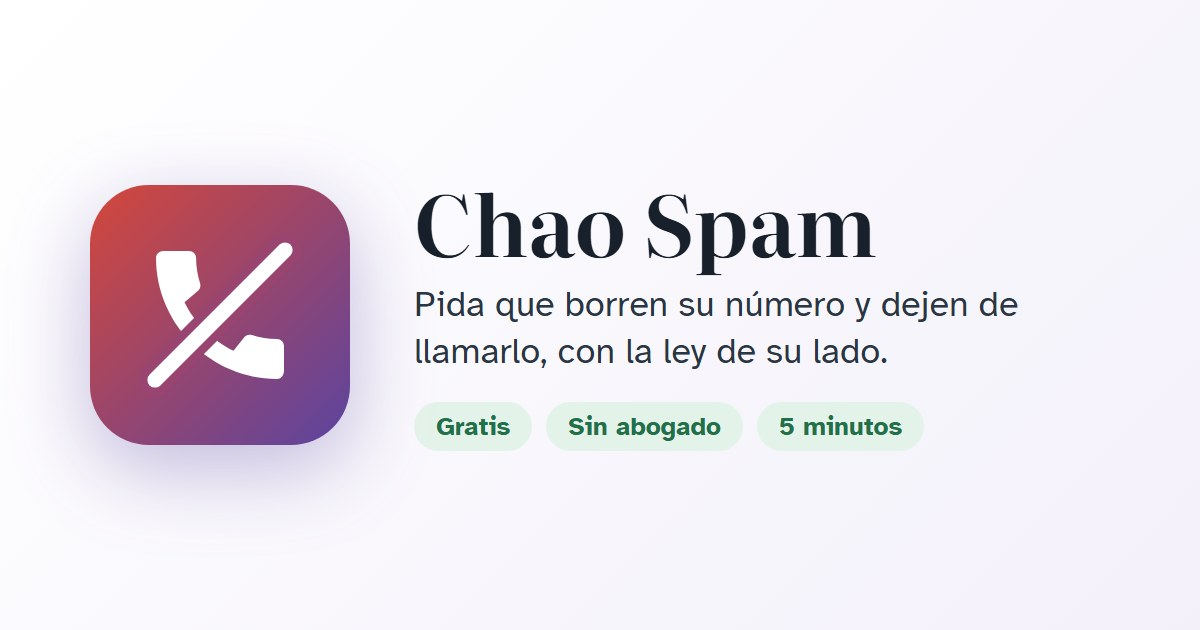
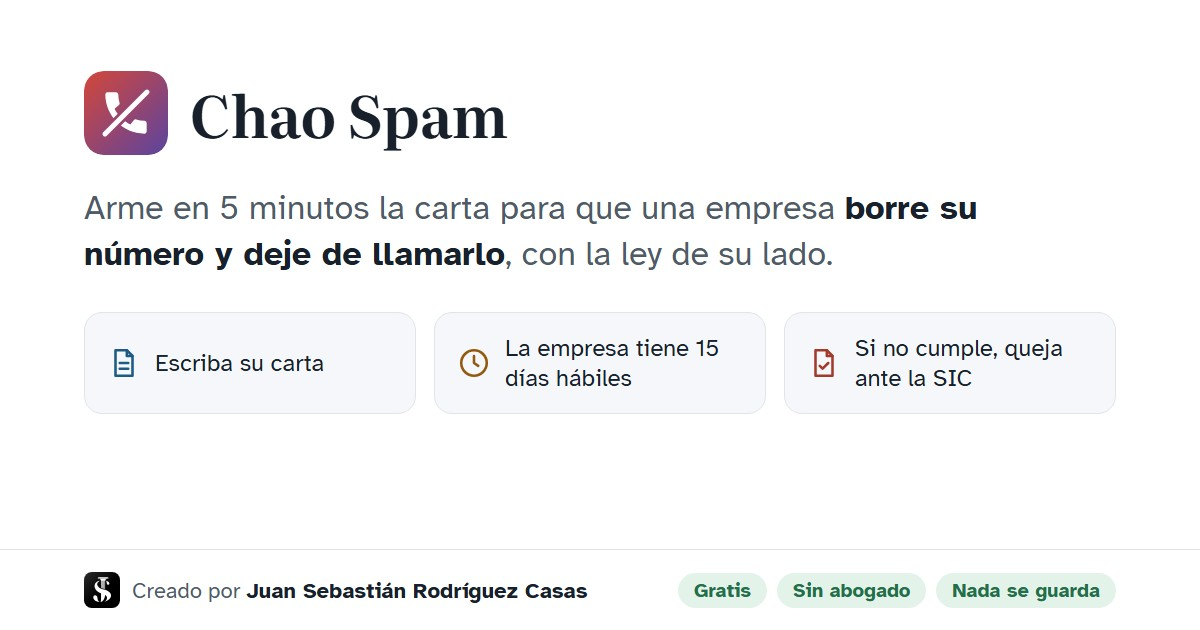
Un paso por pantalla con la accion principal abajo, imagen para compartir minimalista con autor, pie en una linea

diff --git a/index.html b/index.html
@@ -21,17 +21,17 @@
 <meta property="og:type" content="website">
 <meta property="og:locale" content="es_CO">
 <meta property="og:site_name" content="Chao Spam">
-<meta property="og:title" content="Chao Spam: pida que borren su número y dejen de llamarlo">
-<meta property="og:description" content="Arme gratis su derecho de petición en 5 minutos, con la ley de su lado. Sin abogado. Nada se guarda.">
+<meta property="og:title" content="Chao Spam · Pida que borren su número y dejen de llamarlo">
+<meta property="og:description" content="Pida que borren su número y dejen de llamarlo, con la ley de su lado. Gratis, sin abogado y en 5 minutos. Creado por Juan Sebastián Rodríguez Casas.">
 <meta property="og:url" content="https://sebastian09781.github.io/peticion-antispam/">
-<meta property="og:image" content="https://sebastian09781.github.io/peticion-antispam/img/og-image.jpg">
+<meta property="og:image" content="https://sebastian09781.github.io/peticion-antispam/img/og-image.jpg?v=3">
 <meta property="og:image:width" content="1200">
 <meta property="og:image:height" content="630">
-<meta property="og:image:alt" content="Logo de Chao Spam: un teléfono tachado, con el texto: pida que borren su número y dejen de llamarlo">
+<meta property="og:image:alt" content="Chao Spam: arme en 5 minutos la carta para que una empresa borre su número y deje de llamarlo. Creado por Juan Sebastián Rodríguez Casas">
 <meta name="twitter:card" content="summary_large_image">
-<meta name="twitter:title" content="Chao Spam: pida que borren su número y dejen de llamarlo">
-<meta name="twitter:description" content="Arme gratis su derecho de petición en 5 minutos, con la ley de su lado.">
-<meta name="twitter:image" content="https://sebastian09781.github.io/peticion-antispam/img/og-image.jpg">
+<meta name="twitter:title" content="Chao Spam · Pida que borren su número y dejen de llamarlo">
+<meta name="twitter:description" content="Pida que borren su número y dejen de llamarlo. Gratis y sin abogado. Creado por Juan Sebastián Rodríguez Casas.">
+<meta name="twitter:image" content="https://sebastian09781.github.io/peticion-antispam/img/og-image.jpg?v=3">
 
 <!-- Datos estructurados para buscadores -->
 <script type="application/ld+json">
@@ -266,6 +266,8 @@ html.quieto *, html.quieto *::before, html.quieto *::after{animation:none!import
 .foot{gap:8px}
 .foot .badge-ok{display:inline-flex; gap:6px; align-items:center; font-size:.85rem; font-weight:700; color:var(--green); background:var(--green-soft); border-radius:999px; padding:5px 12px; text-decoration:none; border:0; font-family:inherit; cursor:pointer}
 .foot .badge-ok .ico{font-size:1rem; color:var(--green)}
+.foot .badge-ok{white-space:nowrap}
+@media (max-width: 440px){ .foot{flex-wrap:nowrap; gap:5px} .foot .badge-ok{font-size:.74rem; padding:5px 9px; gap:4px} .foot .badge-ok .ico{font-size:.85rem} }
 
 /* Botones principales: degradado suave en movimiento y un brillo que pasa de vez en cuando, para invitar a tocarlos */
 .cta.main, .cta.sic, .btn.next{position:relative; overflow:hidden; background-size:220% 100%; transition:transform .15s ease, box-shadow .3s ease}
@@ -303,6 +305,13 @@ footer.nav .btn.next.ready{background-image:linear-gradient(110deg, var(--blue) 
 .sugg button:hover, .sugg button.act{background:var(--blue-soft)}
 @media (prefers-reduced-motion: no-preference){ .sugg:not([hidden]){animation:rise .18s ease-out} }
 
+.docbar{display:flex; justify-content:space-between; align-items:center; gap:10px; margin-top:-8px}
+.iconcta.sm{width:46px; min-height:46px; font-size:1.25rem}
+footer.nav .btn.next{display:inline-flex; gap:8px; align-items:center; justify-content:center; flex:1; max-width:22rem; font-size:1.05rem; min-height:50px}
+footer.nav .btn.next .ico{font-size:1.25rem}
+footer.nav .btn.next{white-space:nowrap}
+@media (max-width: 400px){ footer.nav .btn.next{font-size:.98rem; padding:10px 14px} footer.nav .btn.prev{padding:10px 14px} }
+footer.nav .btn.prev{flex:none}
 .sendbar{display:flex; gap:10px; align-items:stretch}
 .sendbar .cta.big{flex:1}
 .iconcta{flex:none; width:58px; min-height:58px; border-radius:14px; border:2px solid var(--line); background:var(--surface); color:var(--blue); display:grid; place-items:center; font-size:1.45rem; cursor:pointer}
@@ -552,38 +561,36 @@ footer.nav{position:fixed; left:0; right:0; bottom:0; z-index:10; background:var
   <!-- CARTA -->
   <section class="step" data-id="carta" style="--c:var(--green);--cs:var(--green-soft)" hidden>
     <div class="qhead"><div class="badge"><svg class="ico"><use href="#i-doc"/></svg></div>
-      <div><p class="qnum">1 · Léala</p><h2 class="qtext">Su carta</h2></div></div>
+      <div><p class="qnum">Su carta</p><h2 class="qtext">Léala antes de enviarla</h2></div></div>
     <div class="paper"><div class="doc" id="carta" contenteditable="true" role="textbox" aria-multiline="true" aria-label="Su carta a la empresa" spellcheck="true"></div></div>
-    <p class="hint"><svg class="ico" style="color:var(--blue)"><use href="#i-pencil"/></svg>Puede tocar el texto para corregirlo.</p>
-
-    <p class="qnum" style="color:var(--green)">2 · Envíela</p>
-    <p class="attach"><svg class="ico"><use href="#i-clip"/></svg>Adjunte una foto de su cédula</p>
-    <div class="sendbar">
-      <button class="cta main big" type="button" id="abrir"><svg class="ico"><use href="#i-send"/></svg>Enviar por correo</button>
-      <button class="iconcta" type="button" id="copiar" aria-label="Copiar el texto" title="Copiar el texto"><svg class="ico"><use href="#i-copy"/></svg></button>
+    <div class="docbar">
+      <p class="hint"><svg class="ico" style="color:var(--blue)"><use href="#i-pencil"/></svg>Toque el texto para corregirlo.</p>
+      <button class="iconcta sm" type="button" id="copiar" aria-label="Copiar el texto" title="Copiar el texto"><svg class="ico"><use href="#i-copy"/></svg></button>
     </div>
+    <p class="attach"><svg class="ico"><use href="#i-clip"/></svg>Al enviarla, adjunte una foto de su cédula</p>
     <p class="status" id="estado" role="status"></p>
-
-    <p class="qnum" style="color:var(--amber)">3 · Agéndelo</p>
-    <div class="deadline">
-      <svg class="ico big-ico"><use href="#i-calendar"/></svg>
-      <p class="date" id="vence">en 15 días hábiles</p>
-      <p class="small muted">Plazo de la empresa · <span id="venceNota"></span></p>
-      <button class="cta alt" type="button" id="cal"><svg class="ico"><use href="#i-plus"/></svg>Agregar a mi calendario</button>
-      <p class="status" id="calEstado" role="status"></p>
-    </div>
-
-    <div class="more-links">
-      <a href="https://tramitescrcom.gov.co/tramites/comun/guia.xhtml?tit=&amp;subt=&amp;tram=ebhrEbS9qKn04bkBEBApXQ==&amp;pr1=3578LkxQ3TO3y3t5FY9/BQ==&amp;onA=S0etv8CCdHqPI8wYF9h5dtdTbijZh1Ii32LohKmsEd6aN1b0ia4DPDtKgFkbFjDn" target="_blank" rel="noopener"><svg class="ico"><use href="#i-shield"/></svg><b>Bloquear mi número en la CRC</b></a>
-      <button type="button" id="otra"><svg class="ico"><use href="#i-plus"/></svg><b>Escribir a otra empresa</b></button>
-    </div>
     <button type="button" class="chipbtn" data-src="lista:c748,res78138,art17,art15,circ,sic9"><svg class="ico"><use href="#i-scale"/></svg>Normas</button>
   </section>
 
+  <!-- AGENDA -->
+  <section class="step" data-id="agenda" style="--c:var(--amber);--cs:var(--amber-soft)" hidden>
+    <div class="qhead"><div class="badge"><svg class="ico"><use href="#i-calendar"/></svg></div>
+      <div><p class="qnum">Último paso</p><h2 class="qtext">Agéndelo</h2></div></div>
+    <div class="deadline">
+      <svg class="ico big-ico"><use href="#i-clock"/></svg>
+      <p>La empresa debe responderle</p>
+      <p class="date" id="vence">en 15 días hábiles</p>
+      <p class="small muted" id="venceNota"></p>
+      <p class="small">Ese día le recordamos volver aquí, por si no cumplió.</p>
+    </div>
+    <p class="status" id="calEstado" role="status"></p>
+    <button class="linkbtn sm" type="button" id="noCal">Ahora no</button>
+  </section>
+
   <!-- QUEJA SIC -->
-  <section class="step" data-id="sic" style="--c:var(--red);--cs:var(--red-soft)" hidden>
+  <section class="step" data-id="caso" style="--c:var(--red);--cs:var(--red-soft)" hidden>
     <div class="qhead"><div class="badge"><svg class="ico"><use href="#i-stamp"/></svg></div>
-      <div><p class="qnum">Queja ante la SIC</p><h2 class="qtext">La empresa no cumplió</h2></div></div>
+      <div><p class="qnum">Queja ante la SIC</p><h2 class="qtext">Cuéntenos qué pasó</h2></div></div>
     <label class="field">¿Qué día envió su carta a la empresa?<input name="fechaEnvio" type="date" required></label>
     <label class="field">¿Qué pasó?
       <select name="situacion">
@@ -592,17 +599,18 @@ footer.nav{position:fixed; left:0; right:0; bottom:0; z-index:10; background:var
         <option value="siguen">Dijeron que sí, pero siguen llamando</option>
       </select></label>
     <div class="note" id="plazo" hidden></div>
+    <p class="err" role="alert"></p>
+  </section>
 
-    <p class="qnum">1 · Léala</p>
+  <section class="step" data-id="sic" style="--c:var(--red);--cs:var(--red-soft)" hidden>
+    <div class="qhead"><div class="badge"><svg class="ico"><use href="#i-doc"/></svg></div>
+      <div><p class="qnum">Su queja</p><h2 class="qtext">Léala antes de enviarla</h2></div></div>
     <div class="paper"><div class="doc" id="queja" contenteditable="true" role="textbox" aria-multiline="true" aria-label="Su queja ante la SIC" spellcheck="true"></div></div>
-    <p class="hint"><svg class="ico" style="color:var(--blue)"><use href="#i-pencil"/></svg>Puede tocar el texto para corregirlo.</p>
-
-    <p class="qnum">2 · Envíela</p>
-    <div class="attach"><svg class="ico"><use href="#i-clip"/></svg><span>Adjunte <b>la carta que envió</b>, <b>su cédula</b> y capturas</span></div>
-    <div class="sendbar">
-      <button class="cta sic big" type="button" id="abrirSic"><svg class="ico"><use href="#i-send"/></svg>Enviar a la SIC</button>
-      <button class="iconcta" type="button" id="copiarSic" aria-label="Copiar el texto" title="Copiar el texto"><svg class="ico"><use href="#i-copy"/></svg></button>
+    <div class="docbar">
+      <p class="hint"><svg class="ico" style="color:var(--blue)"><use href="#i-pencil"/></svg>Toque el texto para corregirlo.</p>
+      <button class="iconcta sm" type="button" id="copiarSic" aria-label="Copiar el texto" title="Copiar el texto"><svg class="ico"><use href="#i-copy"/></svg></button>
     </div>
+    <div class="attach"><svg class="ico"><use href="#i-clip"/></svg><span>Al enviarla, adjunte <b>la carta que envió</b>, <b>su cédula</b> y capturas</span></div>
     <p class="status" id="estadoSic" role="status"></p>
     <div class="chips-row">
       <a class="chipbtn" href="https://servicioslinea.sic.gov.co/servilinea/pqrsf/" target="_blank" rel="noopener"><svg class="ico"><use href="#i-ext"/></svg>Formulario web SIC</a>
@@ -616,14 +624,12 @@ footer.nav{position:fixed; left:0; right:0; bottom:0; z-index:10; background:var
       <div class="thanks-mark" aria-hidden="true"><svg viewBox="0 0 24 24"><path d="M5 12.5l4.5 4.5L19 7.5"/></svg></div>
       <h1>¡Gracias! Ya hizo su parte.</h1>
       <p class="lead" id="gTexto"></p>
-      <button class="cta main big" type="button" id="gCal"><svg class="ico"><use href="#i-calendar"/></svg>Agregar a mi calendario</button>
       <div class="more-links" style="width:100%">
         <button type="button" id="gShare"><svg class="ico"><use href="#i-share"/></svg><b>Compartir con alguien a quien también llamen</b></button>
         <a href="https://tramitescrcom.gov.co/tramites/comun/guia.xhtml?tit=&amp;subt=&amp;tram=ebhrEbS9qKn04bkBEBApXQ==&amp;pr1=3578LkxQ3TO3y3t5FY9/BQ==&amp;onA=S0etv8CCdHqPI8wYF9h5dtdTbijZh1Ii32LohKmsEd6aN1b0ia4DPDtKgFkbFjDn" target="_blank" rel="noopener"><svg class="ico"><use href="#i-shield"/></svg><b>Bloquear mi número en la CRC</b></a>
         <button type="button" id="gOtra"><svg class="ico"><use href="#i-plus"/></svg><b>Escribir a otra empresa</b></button>
       </div>
       <p class="status" id="gEstado" role="status"></p>
-      <button class="linkbtn" type="button" id="gInicio">Volver al inicio</button>
       <p class="credit">Chao Spam · Servicio gratuito creado por <a href="https://sebastian-09781.blogspot.com/" target="_blank" rel="noopener">Juan Sebastián Rodríguez Casas</a></p>
     </div>
   </section>
@@ -972,15 +978,17 @@ footer.nav{position:fixed; left:0; right:0; bottom:0; z-index:10; background:var
     sinCorreo: 'Esta empresa no publica un correo para datos personales. Igual puede seguir. Al final, copie el texto y péguelo en el chat o formulario de la empresa.',
     ruesSinCorreo: 'Encontramos la empresa, pero no tenemos su correo. Búsquelo en la política de datos de su página web y escríbalo en el campo de correo.',
     manual: 'Escriba el nombre legal de la empresa y su correo para datos personales. Si no sabe dónde encontrarlo, toque: Cómo encuentro el correo.',
-    carta: '¡Su carta está lista! Primero, léala con calma. Si quiere cambiar algo, toque el texto. Cuando esté de acuerdo, adjunte una foto de su cédula y toque Enviar por correo. Por último, agende el recordatorio: la empresa tiene plazo {fecha}.',
-    sic: 'Vamos con la queja ante la Superintendencia de Industria y Comercio. Díganos qué día envió su carta a la empresa y qué pasó. Luego lea la queja, y cuando esté de acuerdo, envíela.',
+    carta: '¡Su carta está lista! Léala con calma. Si quiere cambiar algo, toque el texto. Cuando esté de acuerdo, toque el botón de abajo: Enviar por correo.',
+    agenda: '¡Muy bien! Último paso. La empresa tiene plazo {fecha}. Toque el botón de abajo, Agregar al calendario, y ese día le recordaremos volver aquí si no cumplió.',
+    caso: 'Vamos con la queja ante la Superintendencia de Industria y Comercio. Díganos qué día envió su carta a la empresa y qué pasó. Yo le diré si ya puede presentar la queja. Luego toque: Ver mi queja.',
+    sic: 'Esta es su queja. Léala con calma. Cuando esté de acuerdo, toque el botón de abajo: Enviar a la SIC.',
     plazoNo: 'Todavía no se ha vencido el plazo de la empresa. Podrá presentar la queja a partir del {fecha}.',
     plazoOk: 'Muy bien: ya puede presentar la queja. Adjunte su carta, su cédula y las capturas que tenga, y toque Enviar queja a la SIC.',
     error: 'Falta un dato. Revise el campo marcado.',
     calendario: 'Listo. Se abrió su calendario con el recordatorio. Solo toque Guardar. Ese día le recordaremos volver aquí si la empresa no cumplió.',
     cuenta: 'Su correo se abrirá en unos segundos. Recuerde adjuntar: {lista}.',
     chao: '¡Chao, spam! Ya se abrió su correo. Adjunte los documentos y presione Enviar. ¡Bien hecho!',
-    gracias: '¡Gracias! Ya hizo su parte. Ahora la empresa debe responderle. Agregue el recordatorio a su calendario, y si quiere, comparta este servicio con alguien a quien también lo llamen.',
+    gracias: '¡Gracias! Ya hizo su parte. Ahora la empresa debe responderle. Si quiere, comparta este servicio con alguien a quien también lo llamen. Para terminar, toque el botón de abajo.',
     graciasSic: '¡Gracias! Su queja va camino a la Superintendencia. Ellos le responderán a su correo. Si quiere, comparta este servicio con alguien a quien también lo llamen.'
   };
   function elegirVoz(){
@@ -1007,6 +1015,7 @@ footer.nav{position:fixed; left:0; right:0; bottom:0; z-index:10; background:var
   var fechaPlazo = function(){ return 'hasta el ' + sumarHabiles(new Date(), 15).toLocaleDateString('es-CO', { weekday:'long', day:'numeric', month:'long' }); };
   function hablarPaso(){
     var id = RUTAS[modo][pos];
+    if (id === 'gracias' && modo === 'sic') id = 'graciasSic';
     hablar((VOZ[id] || '').replace('{fecha}', fechaPlazo()));
   }
   if (synth) {
@@ -1024,7 +1033,9 @@ footer.nav{position:fixed; left:0; right:0; bottom:0; z-index:10; background:var
   });
 
   // ---------- Recorridos ----------
-  var RUTAS = { carta:['inicio','derechos','usted','empresa','carta'], sic:['inicio','usted','empresa','sic'] };
+  // Un paso por pantalla. El botón grande de abajo siempre es la siguiente acción real.
+  var RUTAS = { carta:['inicio','derechos','usted','empresa','carta','agenda','gracias'], sic:['inicio','usted','empresa','caso','sic','gracias'] };
+  var ACCION = { carta:['i-send', 'Enviar por correo'], sic:['i-send', 'Enviar a la SIC'], agenda:['i-calendar', 'Agregar al calendario'], gracias:['i-check', 'Terminar'] };
   var modo = 'carta', pos = 0;
   var steps = {}; [].forEach.call(document.querySelectorAll('.step'), function(s){ steps[s.dataset.id] = s; });
   var bar = document.getElementById('bar'), count = document.getElementById('count');
@@ -1048,14 +1059,22 @@ footer.nav{position:fixed; left:0; right:0; bottom:0; z-index:10; background:var
     var id = ruta[pos];
     Object.keys(steps).forEach(function(k){ steps[k].hidden = k !== id; });
     if (id === 'carta') { var c = armarCarta(leer(), new Date()); carta.innerHTML = c.html; carta.dataset.asunto = c.asunto; carta.scrollTop = 0;
-      actualizarVence(); document.getElementById('estado').textContent = ''; }
-    if (id === 'sic') pintarQueja();
+      document.getElementById('estado').textContent = ''; }
+    if (id === 'caso') pintarPlazo();
+    if (id === 'sic') { pintarQueja(); queja.scrollTop = 0; }
+    if (id === 'agenda') actualizarVence();
+    if (id === 'gracias') document.getElementById('gTexto').textContent = modo === 'sic'
+      ? 'Su queja va camino a la Superintendencia de Industria y Comercio. Ellos le responderán al correo que escribió.'
+      : 'Su carta va en camino. La empresa tiene plazo ' + fechaPlazo() + ' para responderle.';
     if (id === 'usted') cargarMunicipios();
-    bar.innerHTML = ruta.slice(1).map(function(_, k){ return '<i class="' + (k + 1 < pos ? 'done' : k + 1 === pos ? 'now' : '') + '"></i>'; }).join('');
+    var total = ruta.length - 2; // sin contar el inicio ni la despedida
+    bar.innerHTML = ruta.slice(1, -1).map(function(_, k){ return '<i class="' + (k + 1 < pos ? 'done' : k + 1 === pos ? 'now' : '') + '"></i>'; }).join('');
     bar.hidden = pos === 0;
-    count.textContent = pos === 0 ? '' : 'Paso ' + pos + ' de ' + (ruta.length - 1);
+    count.textContent = pos === 0 || id === 'gracias' ? '' : 'Paso ' + pos + ' de ' + total;
     document.querySelector('footer.nav').hidden = pos === 0;
-    next.textContent = pos === ruta.length - 1 ? 'Volver al inicio' : ruta[pos + 1] === 'carta' ? 'Ver mi carta ✓' : ruta[pos + 1] === 'sic' ? 'Ver mi queja ✓' : 'Siguiente →';
+    prev.hidden = id === 'gracias';
+    var acc = ACCION[id] || (ruta[pos + 1] === 'carta' ? ['i-doc', 'Ver mi carta'] : ruta[pos + 1] === 'sic' ? ['i-doc', 'Ver mi queja'] : null);
+    next.innerHTML = acc ? '<svg class="ico"><use href="#' + acc[0] + '"/></svg>' + acc[1] : 'Siguiente →';
     window.scrollTo(0, 0);
     var first = steps[id].querySelector('input:not([type=checkbox]):not([type=radio]):not([type=date])');
     if (first && !first.value && matchMedia('(pointer:fine)').matches) setTimeout(function(){ first.focus({ preventScroll:true }); }, 300);
@@ -1066,12 +1085,16 @@ footer.nav{position:fixed; left:0; right:0; bottom:0; z-index:10; background:var
   document.querySelectorAll('[data-start]').forEach(function(b){ b.addEventListener('click', function(){ if (b.dataset.voz) setVoz(true); empezar(b.dataset.start); }); });
   document.getElementById('home').addEventListener('click', function(){ go(0); play('tick'); });
   next.addEventListener('click', function(){
-    var ruta = RUTAS[modo], s = steps[ruta[pos]];
-    if (pos === ruta.length - 1) { go(0); play('tick'); return; }
+    var ruta = RUTAS[modo], id = ruta[pos], s = steps[id];
+    if (id === 'gracias') { go(0); play('back'); return; }
     if (!valido(s)) { play('nope'); return; }
+    if (id === 'carta') return enviarCarta();
+    if (id === 'sic') return enviarSic();
+    if (id === 'agenda') { agendar(); setTimeout(function(){ go(pos + 1); play('fanfare'); }, 600); return; }
     go(pos + 1);
-    play(ruta[pos] === 'carta' || ruta[pos] === 'sic' ? 'letter' : 'step');
+    play(ruta[pos] === 'carta' || ruta[pos] === 'sic' ? 'letter' : ruta[pos] === 'gracias' ? 'fanfare' : 'step');
   });
+  document.getElementById('noCal').addEventListener('click', function(){ go(pos + 1); play('fanfare'); });
   prev.addEventListener('click', function(){ go(pos - 1); play('back'); });
 
   // El botón Siguiente "brilla" cuando la pantalla está completa: así se sabe que ya puede avanzar.
@@ -1080,8 +1103,7 @@ footer.nav{position:fixed; left:0; right:0; bottom:0; z-index:10; background:var
     var s = steps[RUTAS[modo][pos]]; if (!s) return;
     [].forEach.call(s.querySelectorAll('input'), validarCampo);
     var ok =[].every.call(s.querySelectorAll('input, select'), function(x){ return x.checkValidity(); }) &&
-             (!s.querySelector('[name=canal]') || !!s.querySelector('[name=canal]:checked')) &&
-             pos < RUTAS[modo].length - 1; // en la última pantalla lo principal es Enviar, no "Volver al inicio"
+             (!s.querySelector('[name=canal]') || !!s.querySelector('[name=canal]:checked'));
     if (ok && !listo && pos > 0) play('ready');
     listo = ok; next.classList.toggle('ready', ok);
   }
@@ -1141,8 +1163,10 @@ footer.nav{position:fixed; left:0; right:0; bottom:0; z-index:10; background:var
     lcard.innerHTML = '<div class="bye">' + particulas + '<div class="core"><svg class="ico"><use href="#i-phoneoff"/></svg></div><h2>¡Chao, spam!</h2></div>' +
       '<p>Se abrió su correo. <b>Adjunte los documentos</b> y presione <b>Enviar</b>.</p>' +
       '<button class="btn next" type="button" id="lok" style="width:100%">Listo</button>';
+    // Avanza ya: cuando la persona vuelva del correo, encuentra el paso siguiente y no otra vez la carta.
+    go(RUTAS[modo].indexOf(modo === 'carta' ? 'agenda' : 'gracias'));
     play('chao'); hablar(VOZ.chao);
-    document.getElementById('lok').onclick = function(){ cerrarLaunch(); gracias(); };
+    document.getElementById('lok').onclick = function(){ cerrarLaunch(); hablarPaso(); };
     document.getElementById('lok').focus();
     estadoEl.textContent = '✓ Se abrió su correo. Adjunte los documentos y envíe.';
     // mailto lo resuelve su propio equipo: abre su programa de correo, no pasa por ningún servidor.
@@ -1150,44 +1174,32 @@ footer.nav{position:fixed; left:0; right:0; bottom:0; z-index:10; background:var
   }
   launch.addEventListener('keydown', function(e){ if (e.key === 'Escape') cerrarLaunch(); });
 
-  document.getElementById('abrir').addEventListener('click', function(){
+  function enviarCarta(){
     lanzar(mailto(leer().correoEmpresa, carta.dataset.asunto, plano(carta)),
       ['Una foto o PDF de su documento de identidad'], document.getElementById('estado'));
-  });
+  }
   document.getElementById('copiar').addEventListener('click', function(){
     copiar('Asunto: ' + carta.dataset.asunto + '\n\n' + plano(carta), document.getElementById('estado'),
       '✓ Copiado con formato. Péguelo en su correo, chat o formulario.', '<p><b>Asunto:</b> ' + e(carta.dataset.asunto) + '</p>' + carta.innerHTML);
   });
-  document.getElementById('abrirSic').addEventListener('click', function(){
+  function enviarSic(){
     lanzar(mailto('contactenos@sic.gov.co', ASUNTO_SIC, plano(queja)),
       ['La carta que envió a la empresa', 'Su documento de identidad', 'Capturas de las llamadas o mensajes (si las tiene)'],
       document.getElementById('estadoSic'));
-  });
+  }
   document.getElementById('copiarSic').addEventListener('click', function(){
     copiar(plano(queja), document.getElementById('estadoSic'), '✓ Copiado con formato. Péguelo en el formulario de la SIC.', queja.innerHTML);
   });
 
   // ---------- Pantalla de despedida ----------
   var URL_SERVICIO = 'https://sebastian09781.github.io/peticion-antispam/';
-  function gracias(){
-    var sic = modo === 'sic';
-    Object.keys(steps).forEach(function(k){ steps[k].hidden = k !== 'gracias'; });
-    bar.hidden = true; count.textContent = ''; document.querySelector('footer.nav').hidden = true;
-    document.getElementById('gTexto').textContent = sic
-      ? 'Su queja va camino a la Superintendencia de Industria y Comercio. Ellos le responderán al correo que escribió.'
-      : 'Su carta va en camino. La empresa tiene plazo ' + fechaPlazo() + ' para responderle.';
-    document.getElementById('gCal').hidden = sic;
-    window.scrollTo(0, 0); play('fanfare'); hablar(sic ? VOZ.graciasSic : VOZ.gracias);
-  }
-  document.getElementById('gCal').addEventListener('click', function(){ document.getElementById('cal').click(); });
   document.getElementById('gShare').addEventListener('click', function(){
     var datos = { title:'Chao Spam', text:'Pide que borren tu número y dejen de llamarte. Gratis y en 5 minutos:', url:URL_SERVICIO };
     if (navigator.share) navigator.share(datos).catch(function(){});
     else copiar(URL_SERVICIO, document.getElementById('gEstado'), '✓ Enlace copiado. Compártalo por WhatsApp o donde quiera.');
     play('tick');
   });
-  document.getElementById('gOtra').addEventListener('click', function(){ document.getElementById('otra').click(); });
-  document.getElementById('gInicio').addEventListener('click', function(){ go(0); play('back'); });
+  document.getElementById('gOtra').addEventListener('click', otraEmpresa);
 
   function actualizarVence(){
     // La empresa recibe hoy; el plazo corre desde el día siguiente.
@@ -1227,7 +1239,7 @@ footer.nav{position:fixed; left:0; right:0; bottom:0; z-index:10; background:var
   // Un solo botón: cada sistema abre su propio calendario.
   var esAndroid = /Android/i.test(navigator.userAgent);
   var esIOS = /iPhone|iPad|iPod/i.test(navigator.userAgent) || (navigator.platform === 'MacIntel' && navigator.maxTouchPoints > 1);
-  document.getElementById('cal').addEventListener('click', function(){
+  function agendar(){
     var r = recordatorio();
     if (esAndroid) location.href = r.android;
     else if (esIOS) location.href = 'data:text/calendar;charset=utf-8,' + encodeURIComponent(r.ics); // iPhone muestra "Agregar al calendario"
@@ -1239,7 +1251,7 @@ footer.nav{position:fixed; left:0; right:0; bottom:0; z-index:10; background:var
     }
     document.getElementById('calEstado').textContent = esAndroid || esIOS ? '✓ Toque "Guardar" en su calendario.' : '✓ Abra el archivo descargado para guardarlo en su calendario.';
     play('ding'); hablar(VOZ.calendario);
-  });
+  }
   function pintarQueja(){ queja.innerHTML = armarQueja(leer(), new Date()); pintarPlazo(); }
   function pintarPlazo(){
     var d = leer();
@@ -1442,12 +1454,12 @@ footer.nav{position:fixed; left:0; right:0; bottom:0; z-index:10; background:var
     (f.empresa.value ? f.correoEmpresa : f.empresa).focus();
   });
 
-  document.getElementById('otra').addEventListener('click', function(){
+  function otraEmpresa(){
     f.empresa.value = ''; f.correoEmpresa.value = ''; f.correoEmpresa.required = true; empresaNit = '';
     elegida.hidden = true; buscar.value = ''; resultados.innerHTML = '';
     manualBox.hidden = true; manualBtn.textContent = 'No la encuentro: escribir los datos a mano';
     modo = 'carta'; go(RUTAS.carta.indexOf('empresa')); play('back');
-  });
+  }
 
   // Enlace del recordatorio: #sic=AAAA-MM-DD abre directo la queja con la fecha de envío puesta.
   var m = location.hash.match(/^#sic(?:=(\d{4}-\d{2}-\d{2}))?$/);
